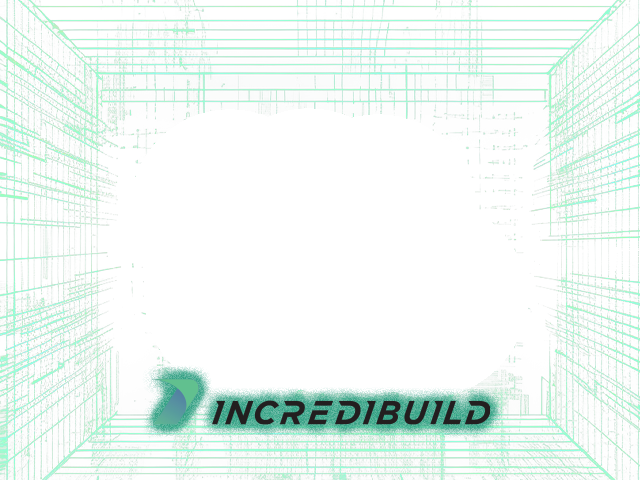
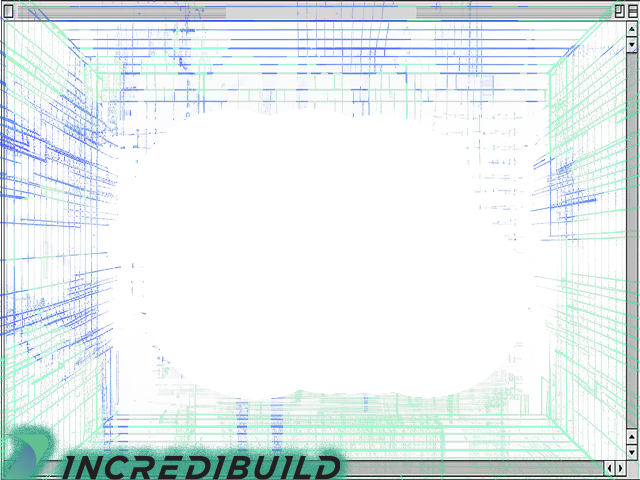
Some of the colors are better. Will continue in the future.

diff --git a/On_Ride_Camera.py b/On_Ride_Camera.py
@@ -45,17 +45,12 @@ if ret:
     # Resize the image mask to match the frame dimensions
     image_mask = cv2.resize(image_mask, (frame.shape[1], frame.shape[0]))
 
-    # Check if the image mask has an alpha channel
-    if image_mask.shape[2] == 4:
-        # Extract the alpha channel from the image mask
-        alpha_channel = image_mask[:, :, 3]
-
-        # Convert the alpha channel to a 3-channel mask
-        image_mask = cv2.cvtColor(alpha_channel, cv2.COLOR_GRAY2BGR)
+    # Create a 3-channel mask
+    mask = cv2.cvtColor(image_mask, cv2.COLOR_BGRA2BGR)
 
     # Apply the image mask to the frame
-    masked_frame = cv2.bitwise_and(frame, cv2.bitwise_not(image_mask))
-    masked_frame = cv2.bitwise_or(masked_frame, image_mask)
+    masked_frame = cv2.bitwise_and(frame, cv2.bitwise_not(mask))
+    masked_frame = cv2.bitwise_or(masked_frame, mask)
 
     # Save the masked frame as an image file
     output_file = 'on_ride_image.png'
